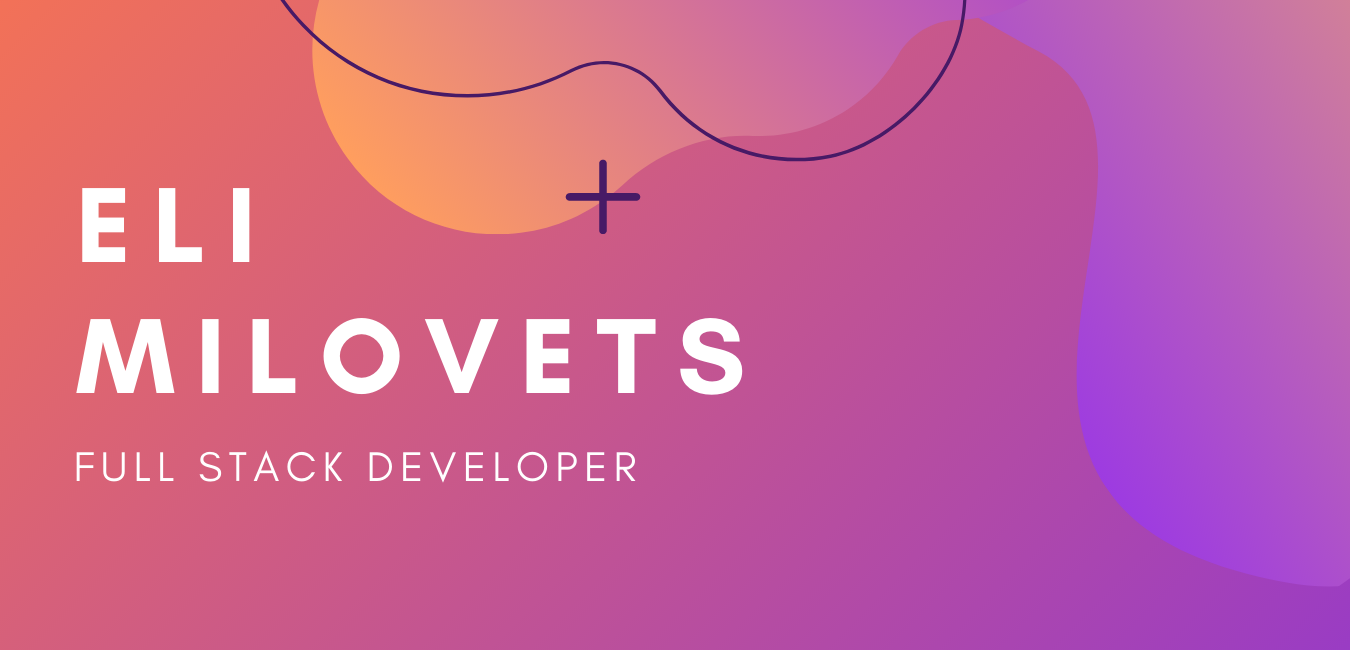
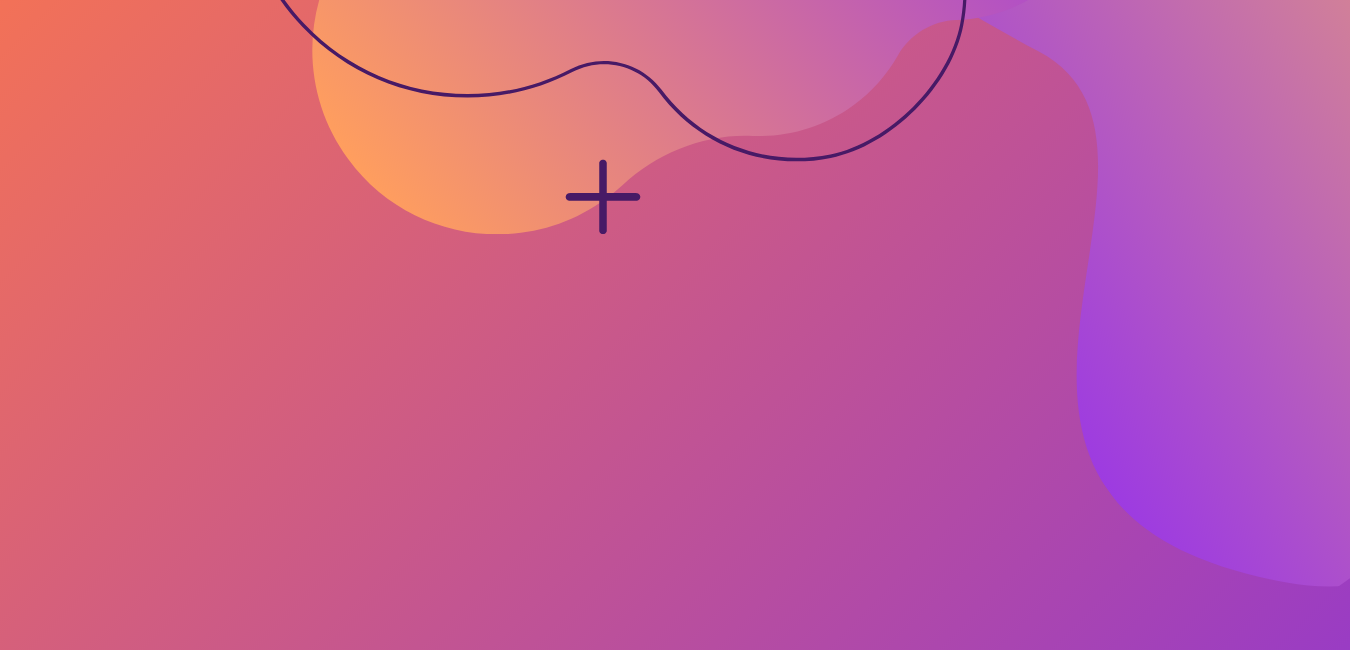
add headshot and style main

Changed region(s): [[0.0311, 0.4923, 0.56, 0.6154], [0.0311, 0.6769, 0.4667, 0.7385], [0.0622, 0.2769, 0.1867, 0.4]]

diff --git a/index.html b/index.html
@@ -7,49 +7,44 @@
         <title>Eli Milovets</title>
     </head>
 
-    <body>
-    <!-- Header Start -->
-        <header>
-            <h1>
-                <a href="/"></a>
-            </h1>
-    <!-- Start Navigation: About Me, View my work, contact info -->
-            <nav>
-                <ul>
-                    <li>
-                        <a href="#intro">INTRO</a>
-                    </li>
-                    <li>
-                        <a href="#content">CONTENT</a>
-                    </li>
-                    <li>
-                        <a href="#connect">CONNECT</a>
-                    </li>
-                </ul>
-            </nav>
+    <header>
+        <body>
+        <!-- Header Start -->
+            <div>
+                <!-- Start Navigation: About Me, View my work, contact info -->
+                <nav>
+                    <ul>
+                        <li>
+                            <a href="#intro">INTRO</a>
+                        </li>
+                        <li>
+                            <a href="#content">CONTENT</a>
+                        </li>
+                        <li>
+                            <a href="#connect">CONNECT</a>
+                        </li>
+                    </ul>
+                </nav>
+            </div>
         </header>
 
     <!-- End Navigation -->
 
     <!-- Hero -->
-        
-        <div class="hero">
+    <section class= "hero">
+        <img src="./assets/eli-headshot.JPG" alt="Eli Milovets looks pretty dang nice professional headshot.">
+        <div class="hero-cta">
+            <h2>ELI MILOVETS</h1>
+            <h3>Full-stack developer</h2>
             <p>
-                Lorem ipsum dolor sit, amet consectetur adipisicing elit. Adipisci obcaecati assumenda facere. Enim harum voluptatibus temporibus commodi amet consectetur fuga. Deleniti delectus veritatis voluptatibus voluptate a assumenda, aliquid eaque voluptatum!
+                Passionate about actualizing ideas and identifying strategic solutions. 
             </p>
         </div>
+    </section>
     <!-- End Hero -->
 
     <!-- "About" Start -->
     <main>
-        <section id="intro" class="about">
-        <div class="flex-row">
-            <h2>
-                HELLO
-            </h2>
-        </div>
-        </section>
-
         <section id="content" class="portfolio">
         <div class="flex-row">
             <h2>
@@ -57,7 +52,7 @@
             </h2>
         <!--Make Run Buddy image large; Add links to project images. -->
         </div>
-        <article class=project>
+        <article class=project-completed>
             <h3>Run Buddy</h3>
             <div class="project-image">
                 <img src="./assets/run-buddy.jpg" alt="Screenshot of a landing page of a fitness website called Run Buddy." />
@@ -99,18 +94,21 @@
     <!-- NEED TO INSERT LINKS -->
     <aside id="connect" class="contact">
         <article class="contact-article">
-            <h3>LINKEDIN</h3>
-            <img src="" alt="" />
+            <a href="https://www.linkedin.com/in/milovets/">
+                linkedin
+            </a>
         </article>
         <br> 
         <article class="contact-article">
-            <h3>EMAIL</h3>
-            <img src="" alt="" />
+            <a href="mailto:elizabeth.milovets@gmail.com">
+                email
+            </a>
         </article>
         <br>
         <article class="contact-article">
-            <h3>CARRIER PIGEON</h3>
-            <img src="" alt="" />
+            <a href="https://www.google.com/maps/place/Milwaukee,+WI/@43.057806,-88.1075137,11z/data=!3m1!4b1!4m5!3m4!1s0x880502d7578b47e7:0x445f1922b5417b84!8m2!3d43.0389025!4d-87.9064736">
+                carrier pigeon
+            </a>
         </article>
     </aside>
 <!-- End Aside -->

diff --git a/style.css b/style.css
@@ -27,16 +27,17 @@ p {
 
 /* Header Style Start */
 
-/* header {
-    padding: 10px;
-    font-weight: 300px;
-    color: white;
-    background-color: purple;
+header {
+    padding: 10px 10px 20px 0;
+    font-weight: 300;
+    display: flex;
+    justify-content:flex-end;
+    flex-wrap: wrap;
+    position: sticky;
+    background-image: url(./assets/eli-milovets.png);
+    background-size: cover;
+    background-attachment: fixed;
 }
-
-header h1 {
-    font-weight: 300px;
-} */
 
 nav {
     padding-top: 10px;
@@ -57,12 +58,28 @@ nav ul li {
 
 /* Main Styles Start */
 .hero {
-    height: 800px;
-    width: 100%;
     background-image: url("./assets/eli-milovets.png");
-    margin-bottom: 10px;
     background-size: cover;
-    background-position: center;
+    display: flex;
+    justify-content: flex-start;
+    flex-wrap: wrap;
+    margin-bottom: 10px;
+    background-attachment: fixed;
+    padding: 53vh 0 15vh 30px;
+    padding-top: 53vh;
+    padding-bottom: 15vh;
+}
+  
+.hero-cta h2 {
+    font-style: italic;
+    font-size: 55px;
+    color: white;
+    text-shadow: 0 0 10px rgba(0, 0, 0, 0.5);
+    align-items: flex-end;
+}
+
+.hero p {
+    /* padding-top: 650px; */
 }
 
 main {
@@ -71,8 +88,11 @@ main {
     margin-left: 10px;
 }
 
-main article {
-
+main .about h1 {
+    padding-top: 500px;
+    margin-left: 21px;
+    max-width: 80%;
+    font-variant: normal;
 }
 
 
@@ -80,11 +100,10 @@ main article img {
     max-height: 200px;
 }
 
-.hero p {
-    padding-top: 650px;
-    margin-left: 21px;
-    max-width: 80%;
-    font-variant: normal;
+
+.project-completed img {
+    max-width: 100%;
+    height: auto;
 }
 
 .even-columns {
